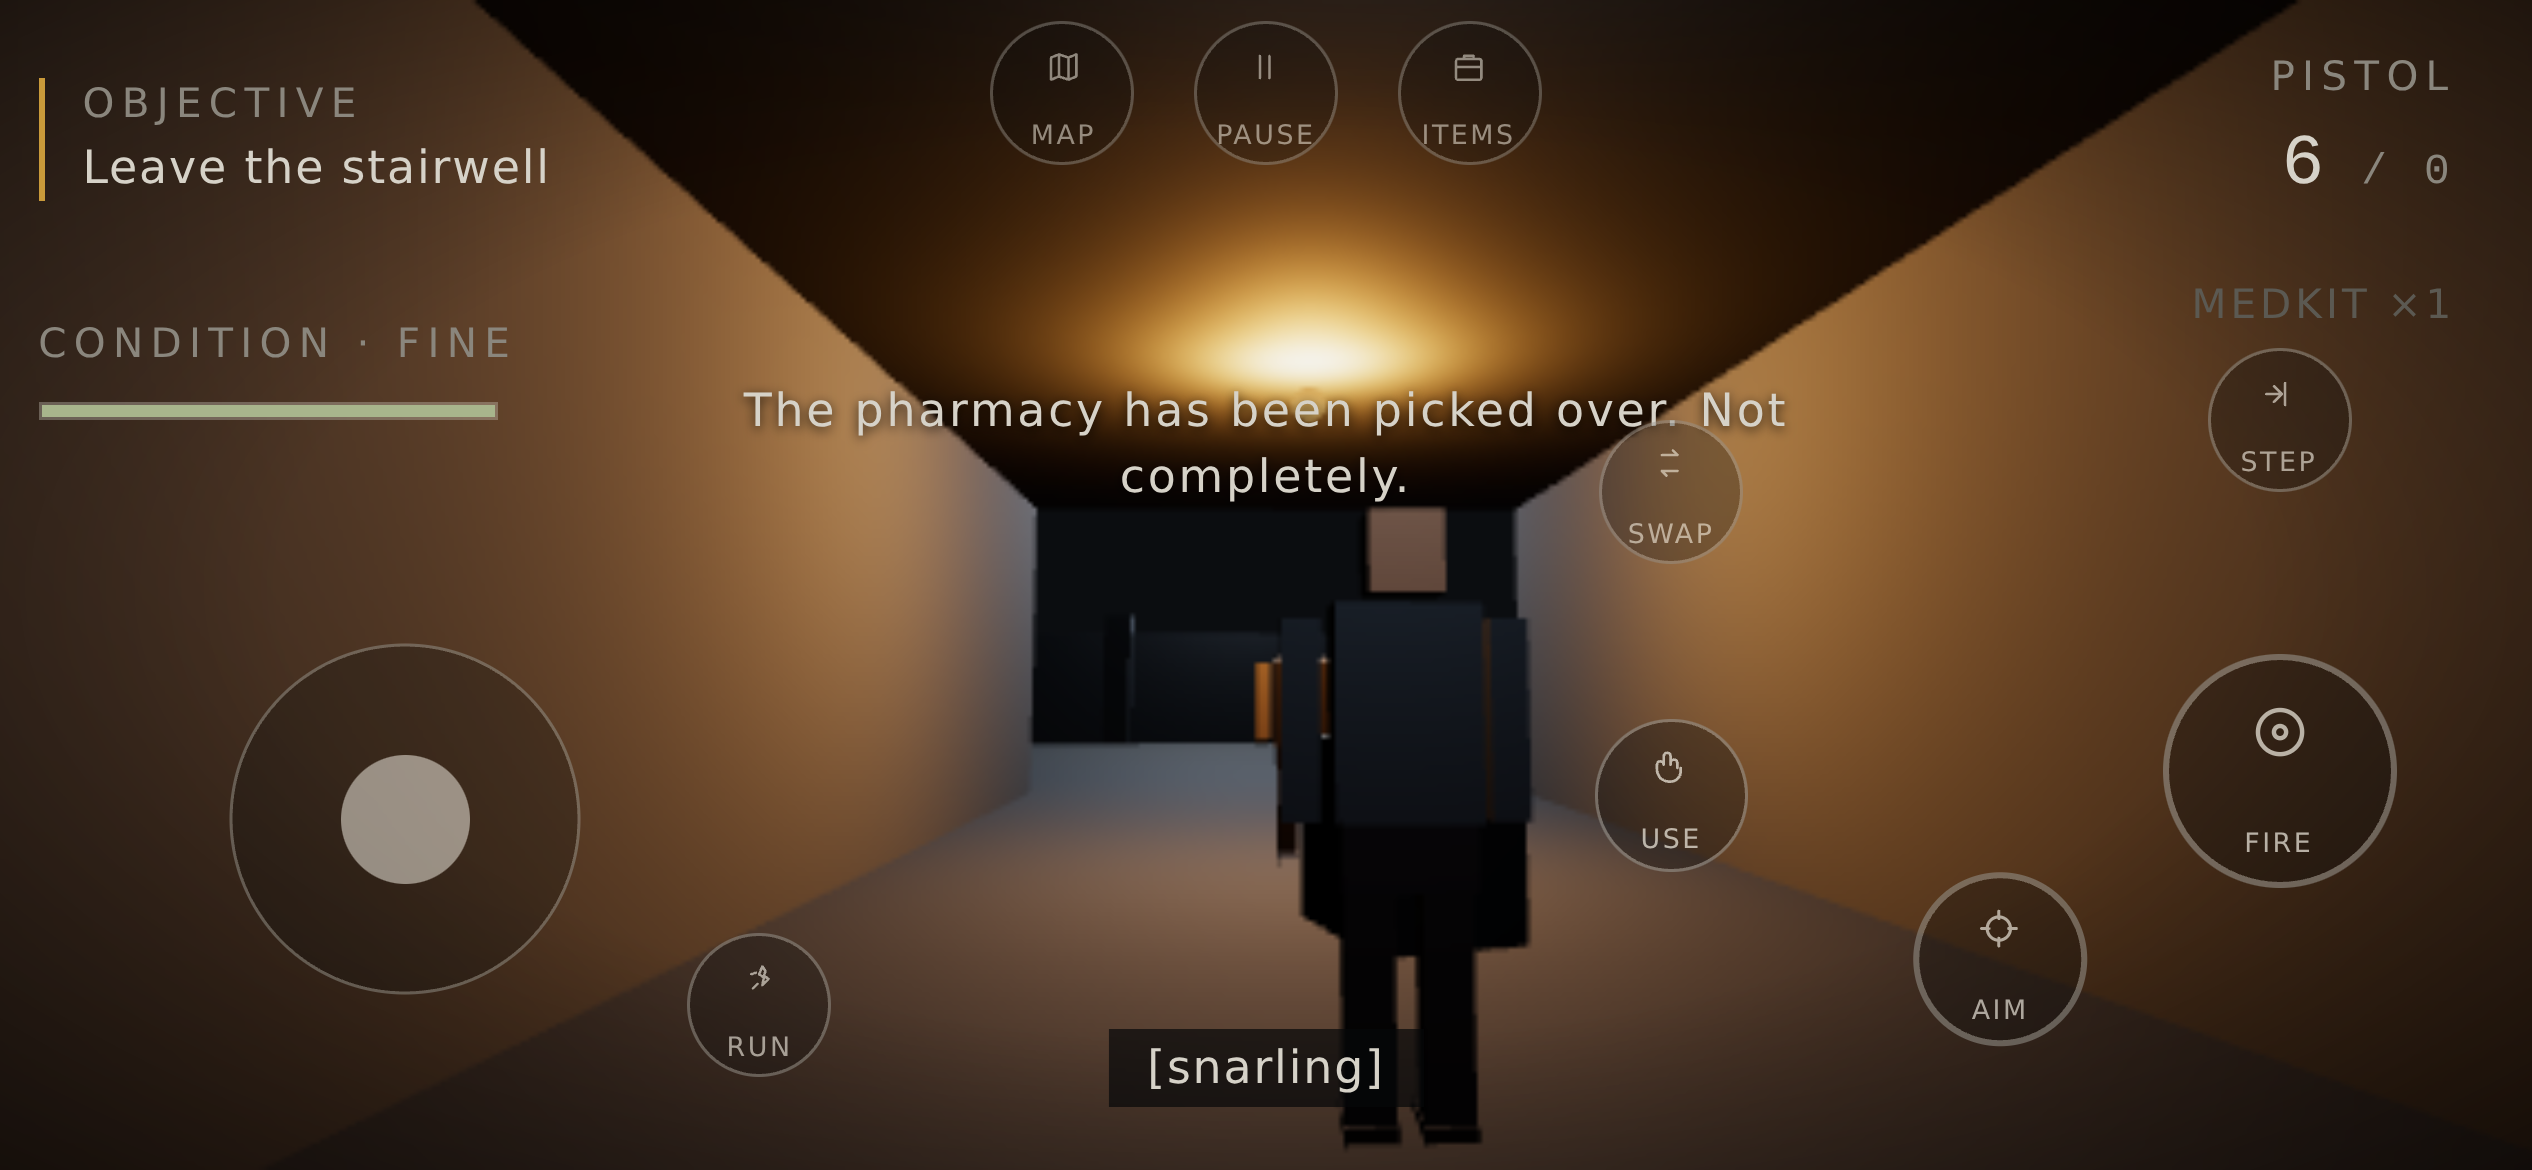
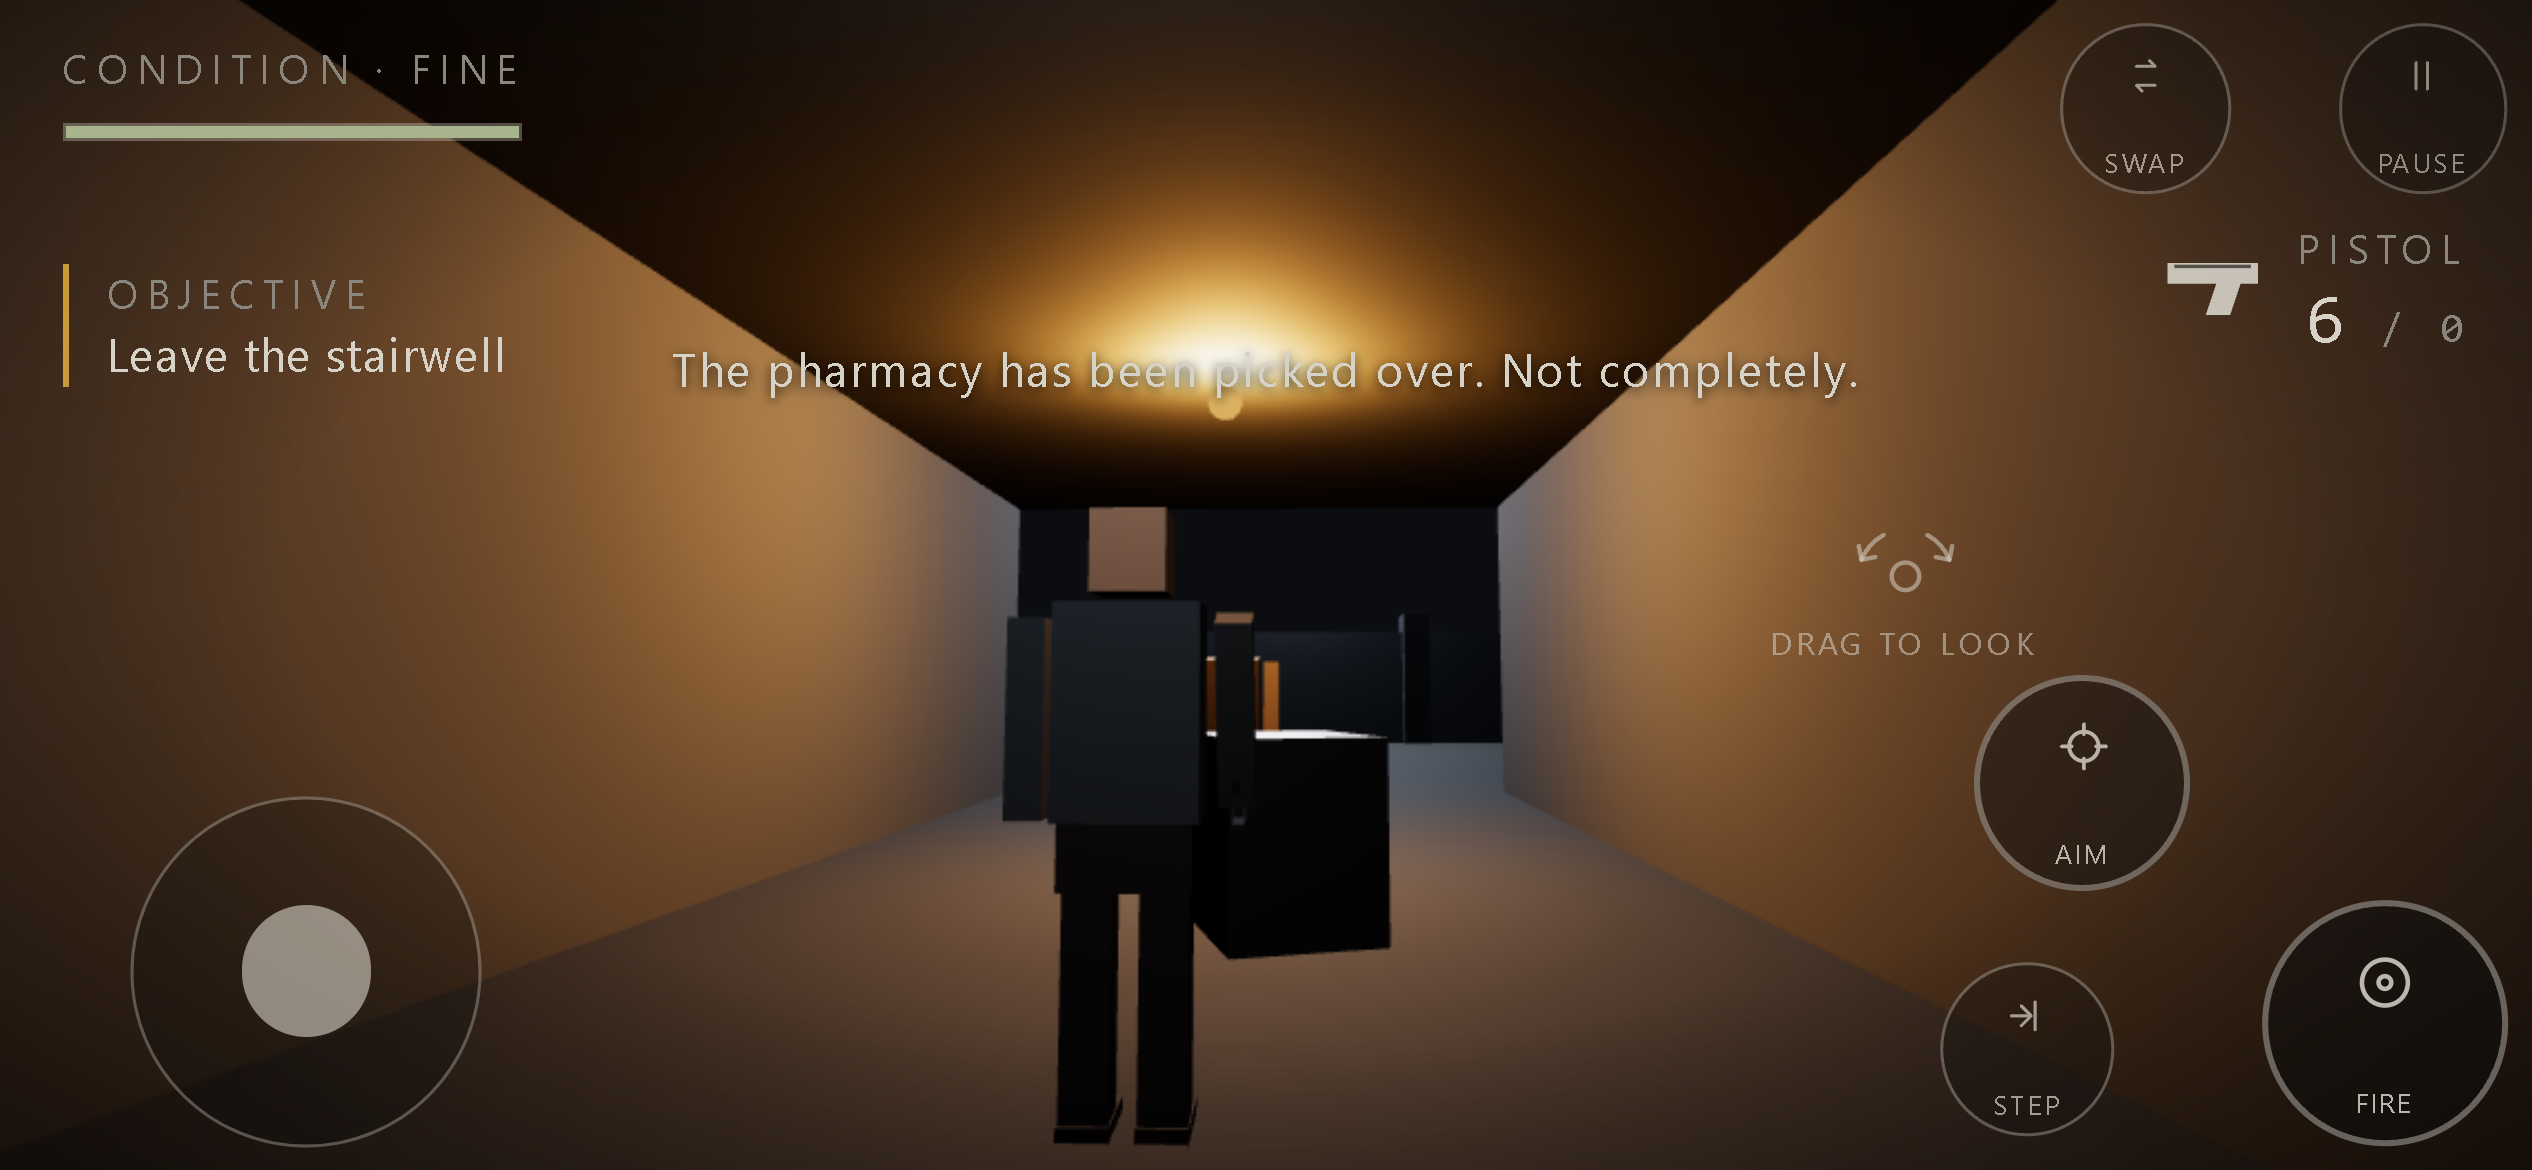
docs: ledger TQC-050..056, input audit addendum, state, release gate, refreshed evidence

diff --git a/docs/audit/08_DEFECT_LEDGER.md b/docs/audit/08_DEFECT_LEDGER.md
@@ -50,3 +50,10 @@ Devices: D desktop KBM, C controller, P phone/tablet touch, A all. Status: FIXED
 | TQC-042 | Security | 5 | Response headers | `public/_headers` has nosniff/referrer/permissions but no CSP | Not written | A | Add a strict `Content-Security-Policy` (`default-src 'self'`; worker/manifest self) | Low | 6 | FIXED | `public/_headers` strict CSP (self; inline styles only) |
 | TQC-043 | Input | 2 | Tap Fire twice within one frame interval (low fps) | `debug-shot` trace: second synthetic tap fired no shot; `inputManager.test.ts` | Edge = down now ∧ not down last frame; a tap that begins before the next sample looked like a hold | A | Sources mark fresh presses (`InputFrame.pulse`); `InputManager` treats `pressedNow` as an edge | Low | 4 | FIXED | `tests/unit/input/inputManager.test.ts` (fresh tap), `tests/e2e/loop.spec.ts` shooting beat |
 | TQC-049 | Gameplay | 3 | Walk with a half-deflected stick or joystick | `touch.spec.ts` trace: 0.64 deflection moved 1.05 m/s instead of 1.66 m/s | Direction vector kept its deflection length and was multiplied by the deflection-scaled speed (quadratic response) | C, P | Normalise the direction before scaling (`player.ts` handleMovement) | Low | 2 | FIXED | `loop.test.ts` half-deflection case; `touch.spec.ts` |
+| TQC-050 | Input | 2 | Any source: move the mouse toward you, push the right stick down, or drag down in the touch look zone | `Simulation.applyLook` did `pitch += dy` while every source fed screen-down-positive Y and `CameraRig` treats positive pitch as looking up: all three sources looked UP on a downward input | No shared sign convention for the Look action; each source wrote `lookDeltaY` directly | K, C, P | One Look action: `InputFrame.addLook` (+x right, +y DOWN), sources apply their own invert, sim subtracts y from pitch; per-source "Invert vertical look" (mouse / controller / touch), settings schema v2 with migration of the old flag | Low (desktop and controller vertical feel becomes the standard, un-inverted one; previously inverted players keep it through the migration) | 4 | FIXED | `tests/unit/input/lookConvention.test.ts` (mouse, pad, touch, sim, migration); `touch.spec.ts` asserts drag-down lowers pitch |
+| TQC-051 | Gameplay / camera | 2 | Face east (+X), hold D | Playwright probe: player z 21 → 18.56 (north = screen-left when facing +X); camera z 18.13 < player z (left shoulder), so the raised right arm and gun were hidden behind the torso while aiming | `right = (cos yaw, 0, -sin yaw)` is the negated forward × up for a +Z-forward camera; shared by `player.ts` strafe and `CameraRig` shoulder offset | K, C, P | Flip the right vector in both places (screen-right = (-cos yaw, sin yaw)); headless walk helper updated | Medium (camera moves to the right shoulder; aim ray unaffected; loop/gamepad/touch gates re-run green) | 2 | FIXED | `lookConvention.test.ts` strafe case; `loop.spec.ts`, `gamepad.spec.ts`, `touch.spec.ts`, `weapon.spec.ts` evidence `*-31-weapon-aim.png` |
+| TQC-052 | Touch | 3 | Drag near the top edge or beside the pause/items/map buttons on a notched phone | Look zone was a fixed 55 % strip from the top to the bottom edge that ignored safe-area insets and contained the top-centre buttons; no geometric rejection of drags starting on a button | Zone drawn by CSS, not from the layout; no shared pointer registry | P, T | `lookZoneRect` = right half inside the safe insets, positioned by `TouchHud.layout`; `PointerOwners` registry (one pointer per control, claims rejected when owned); drags starting on a visible button hit circle are refused; first-use "drag to look" glyph; optional visible right stick (`touchLookControl`) with radial dead zone and squared response | Low | 6 | FIXED | `touchHud.test.ts` (two-pointer simultaneous move+look every frame, cancel, ownership both ways, hit-reject, hint, right stick); `touch.spec.ts` second test |
+| TQC-053 | Touch | 3 | Same preset at 19.5:9, 20:9, 4:3, 16:10 | v1 presets positioned controls as fractions of the whole safe area with sizes relative to the short side, so the 8 px margin and gaps did not hold across aspects; overlap check used a 0 px gap; 48 px minimum; pause/items/map sat in the top-centre band | Layout format not edge-anchored; no build gate | P, T | Edge-anchored coordinates (`x = 1` touches the 8 px margin at any aspect), reference-side clamp for sizes, 56 / 72 px minimums, 12 px gaps, look-zone intrusion and crowding checks (`checkLayout`); rebuilt phone/tablet presets; `vite-plugin-touch-layout-check` fails the build on any violation; profiles v2 (v1 layouts reset) | Low | 6 | FIXED | `touchLayout.test.ts`, `touchProfiles.test.ts`, `pnpm build` gate, `docs/audit/touch/after/*.png` (20 captures) |
+| TQC-054 | Render | 3 | Watch the player aim or reload | No held weapon; muzzle flash from a fixed offset in front of the torso | Rig had no hand sockets | all | `WeaponRig` (handgun, medkit, torch; PLACEHOLDER_ART) on hand sockets with raise blend, pitch follow, reload roll and a muzzle socket used by the fire effect; HUD equipped-item silhouette | Low | 8 | FIXED | `weapon.spec.ts` evidence `*-30…33-weapon-*.png` |
+| TQC-055 | Level | 3 | Stand by the pharmacy shelf, the counter, the booth or the stairwell door | Medkit, ammo box, notebook and the radio floated at authored heights beside furniture; the radio had no mesh; "papers" sheet and the road-closed sign floated; the barrier arm hung with no post | Positions authored by hand, never grounded | all | `groundLevel`: raycast down from each prop / pickup / loose document / radio spawn, place the bottom on the hit surface, skip when nothing lies within 4 m (`SPAWN`); radio body with lit dial; bag under the flashlight, ledge under the notebook, post under the arm; papers removed; QA overlay spawn-ray draw (F10 / button) | Low | 8 | FIXED | `tests/unit/level/grounding.test.ts` (synthetic + whole district: nothing skipped); loop tests |
+| TQC-056 | HUD | 4 | Touch HUD on 4:3 or with reload available | Ammo readout overlapped the pause button (4:3) and the contextual reload button (phone) | Fixed 72 px offset; vertical stack | P, T | `TouchHud` publishes `--tqc-touch-top-cluster`; item block laid out horizontally under touch, secondary line hidden | None | 6 | FIXED | `docs/audit/touch/after/tablet-4x3.png`, `twoThumb-19_5x9.png` |

diff --git a/docs/audit/10_RELEASE_GATE.md b/docs/audit/10_RELEASE_GATE.md
@@ -10,8 +10,8 @@ evidence produced in this session.
 |---|---|---|
 | Lint | `pnpm lint` | 0 errors (warnings: none) |
 | Type check | `pnpm typecheck` | clean |
-| Unit tests | `pnpm test` | 16 files, 68 tests passing |
-| Production build | `pnpm build` | clean; `dist/` with manifest + service worker |
+| Unit tests | `pnpm test` | 19 files, 93 tests passing (2026-09-04 wave) |
+| Production build | `pnpm build` | clean; `dist/` with manifest + service worker; `tqc-touch-layout-check` reports 4 presets clean at 4 aspect ratios (build fails on overlap / edge / look-zone violations) |
 | Bundle hygiene | `pnpm check:bundle` | "production output contains no reference screenshots" |
 | §0.1 loop, desktop KBM | `pnpm exec playwright test tests/e2e/loop.spec.ts --project=desktop-1080p` | PASS (1.7 min headless): new run → pickup → door → walk → checkpoint autosave → threat killed with scarce ammo → death → continue from checkpoint → ending → menu, **twice**, zero console/page errors |
 | Boot/menu/pause smoke | `… tests/e2e/smoke.spec.ts --project=desktop-1080p` | PASS (boot → warning → menu → new run → pause → resume → quit, zero errors) |
@@ -76,3 +76,17 @@ untested** and must be run before a public release:
 | Live checks | `/`, `/manifest.webmanifest`, `/sw.js`, `/precache-manifest.json` and all three hashed assets return 200; hashed assets `immutable`, shell/worker `no-cache`; CSP, nosniff, referrer and permissions headers present; no `http://` references in the shell |
 | Offline | `tests/e2e/offline.spec.ts`: first load installs the worker and precaches; offline reload boots; new run → first interaction → checkpoint save → offline reload → Continue restores the run. PASS locally (12.3 s) and against https://quiet-collapse.pages.dev (`E2E_BASE_URL`, 2 passed incl. `live-boot.spec.ts`: no console errors, worker `activated`, stamp `0.1.0 · b7901e9`). |
 | Reference hygiene | `pnpm check:bundle` on the deployed `dist/`: zero reference-screenshot hits |
+
+## Touch look / weapon / grounding wave (2026-09-04)
+
+| Check | Command | Result |
+|---|---|---|
+| Look convention, per-source invert, strafe direction, settings migration | `pnpm test` (`tests/unit/input/lookConvention.test.ts`, 7 tests) | PASS |
+| Touch pointer ownership: move + look simultaneously, cancel, button/zone exclusivity, hit-reject, hint, right stick, contextual buttons | `tests/unit/ui/touchHud.test.ts` (12 tests) | PASS |
+| Presets at 19.5:9, 20:9, 4:3, 16:10 in drag and stick modes: >= 56 / 72 px, 12 px gaps, 8 px safe margin, no look-zone intrusion, >= 60 % free look zone, top-centre band empty | `tests/unit/ui/touchLayout.test.ts` + Vite build plugin | PASS (build gate active) |
+| Spawn grounding (synthetic + whole district, nothing skipped) | `tests/unit/level/grounding.test.ts` | PASS |
+| Emulated touch run: two fingers move + look every frame, aim + fire while moving, drag-down lowers pitch, drag-right turns right, backgrounding releases every pointer, nothing sticks after resume | `... tests/e2e/touch.spec.ts --project=phone-landscape` | PASS (2 tests, 21 s) |
+| Preset screenshots, every preset at every aspect (+ right-stick variant) | `... tests/e2e/touch-presets.spec.ts --project=phone-landscape` | PASS; 20 files in `docs/audit/touch/after/` |
+| Held weapon: carry, aim (camera over the right shoulder), fire from the muzzle socket, reload motion | `... tests/e2e/weapon.spec.ts` (desktop-1080p, phone-landscape) | PASS; `evidence/*-3x-weapon-*.png` |
+| Regression: desktop loop x2, smoke, emulated controller, screens, offline | `... smoke/loop/gamepad/screens --project=desktop-1080p`, `pnpm test:offline` | PASS |
+| QA preview | `pnpm deploy:qa` | https://qa.quiet-collapse.pages.dev (deployment id in STATE.md) |

diff --git a/docs/audit/STATE.md b/docs/audit/STATE.md
@@ -9,6 +9,19 @@ Resume from this file, not from scratch.
 - Reference screenshots stay outside the repo (scratchpad only). Only pack `.md` files are committed.
 
 ## Phase / wave
+- **Touch look / weapon / prop / touch-HUD wave (2026-09-04) — complete, all gates green.**
+  Root causes fixed: vertical look inverted on every source (TQC-050, `Simulation.applyLook` added
+  screen-down Y to pitch); camera over the left shoulder and mirrored strafe (TQC-051, negated right vector
+  in `player.ts` / `CameraRig.ts`); look zone ignoring safe insets with top-centre buttons inside it (TQC-052);
+  presets not edge-anchored / no build gate (TQC-053); no held weapon (TQC-054); floating pickups, radio
+  without a mesh, scattered decoration (TQC-055); touch ammo readout collisions (TQC-056).
+  New: `InputFrame.addLook` convention, per-source invert (settings v2), `PointerOwners`, `touchLayout.ts`
+  + `touchPresets.ts` (profiles v2, v1 layouts reset), right-stick look option, first-use look glyph,
+  `WeaponRig`, `groundLevel` + `SpawnRayDebug` (F10 / overlay button), `vite-plugin-touch-layout-check`.
+  Unit: 19 files, 93 tests. e2e green: smoke, loop, gamepad, screens, weapon (desktop); touch (2 tests),
+  touch-presets (20 captures in `docs/audit/touch/after/`), weapon, screens (phone); offline.
+  Behaviour change to note for real-device testers: mouse/controller vertical look is now un-inverted
+  (standard) and the camera sits over the right shoulder.
 - **All gates passed in headless Chromium**: desktop loop (KBM) ×2, emulated controller flow, phone touch
   loop, smoke, evidence screenshots (1080p, phone; 1366×768 run last). Unit: 69 tests. See 10_RELEASE_GATE.md.
 - Remaining work is real-device verification (no GPU/hardware in this session) — see the manual matrix.
@@ -45,9 +58,9 @@ Resume from this file, not from scratch.
   Wave 10 release gate (10_RELEASE_GATE.md), handoff.
 
 ## Verification commands
-- `pnpm lint && pnpm typecheck && pnpm test` (unit: 55 tests) · `pnpm build && pnpm check:bundle`
+- `pnpm lint && pnpm typecheck && pnpm test` (unit: 93 tests) · `pnpm build && pnpm check:bundle` (build fails on a bad touch preset)
 - `pnpm exec playwright test tests/e2e/smoke.spec.ts tests/e2e/screens.spec.ts tests/e2e/loop.spec.ts --project=desktop-1080p`
-- `pnpm exec playwright test tests/e2e/touch.spec.ts --project=phone-landscape`
+- `pnpm exec playwright test tests/e2e/touch.spec.ts tests/e2e/touch-presets.spec.ts tests/e2e/weapon.spec.ts --project=phone-landscape`
 
 ## Open blockers
 - None.

diff --git a/docs/audit/04_INPUT_AND_ACCESSIBILITY_AUDIT.md b/docs/audit/04_INPUT_AND_ACCESSIBILITY_AUDIT.md
@@ -75,3 +75,23 @@ Ordered regex table (`FAMILY_RULES`, `:23-31`): PlayStation 0.95, Nintendo 0.95,
 - Keyboard/mouse source ignores the first mouse movement after a pointer-lock change and discards single
   movement deltas above 250 px, which browsers (and headless Chromium) can report as the cursor snaps.
 - Losing pointer lock during play opens the pause menu (`PointerLockController`).
+
+## Addendum 2 (touch look / weapon / grounding wave, 2026-09-04)
+
+- **One Look action.** `InputFrame.addLook(dx, dy)` is the only way a source contributes look; `+x` turns right,
+  `+y` looks down (screen Y grows downward). Mouse (`movementY`), right stick (`axes[3]`) and touch drag all
+  produce `+y` for a downward input; each applies its own invert flag (`controls.invertYMouse / invertYGamepad /
+  invertYTouch`, settings v2, old `invertY` migrated onto all three). `Simulation.applyLook` subtracts `y`
+  from pitch. Before this wave every source looked up on a downward input (TQC-050).
+- **Screen-right.** The camera and strafe right vector is `(-cos yaw, 0, sin yaw)` (forward × up). The
+  previous sign put the camera over the left shoulder and mirrored A/D (TQC-051).
+- **Touch HUD.** `PointerOwners` gives every control at most one pointer id; the look zone is the right half of
+  the surface inside the safe-area insets minus visible button hit circles; a drag that starts on a button is
+  refused and a button never fires for a pointer the look zone owns. Optional right stick (`controls.touchLookControl`)
+  with the shared radial dead zone and the same squared response as the gamepad. Layout coordinates are
+  edge-anchored (`src/ui/touch/touchLayout.ts`); presets are checked at 19.5:9, 20:9, 4:3 and 16:10 in both look modes
+  by `touchLayout.test.ts` and by the Vite build plugin. Contextual buttons: Use only with a prompt, Reload only when
+  a reload is possible, Fire only with a pistol or a medkit to use.
+- Tests added: `lookConvention.test.ts`, `touchLayout.test.ts`, rewritten `touchHud.test.ts` / `touchProfiles.test.ts`,
+  `grounding.test.ts`; e2e `touch.spec.ts` (move + look at once, aim + fire while moving, pitch direction, backgrounding),
+  `touch-presets.spec.ts` (20 screenshots), `weapon.spec.ts`.
